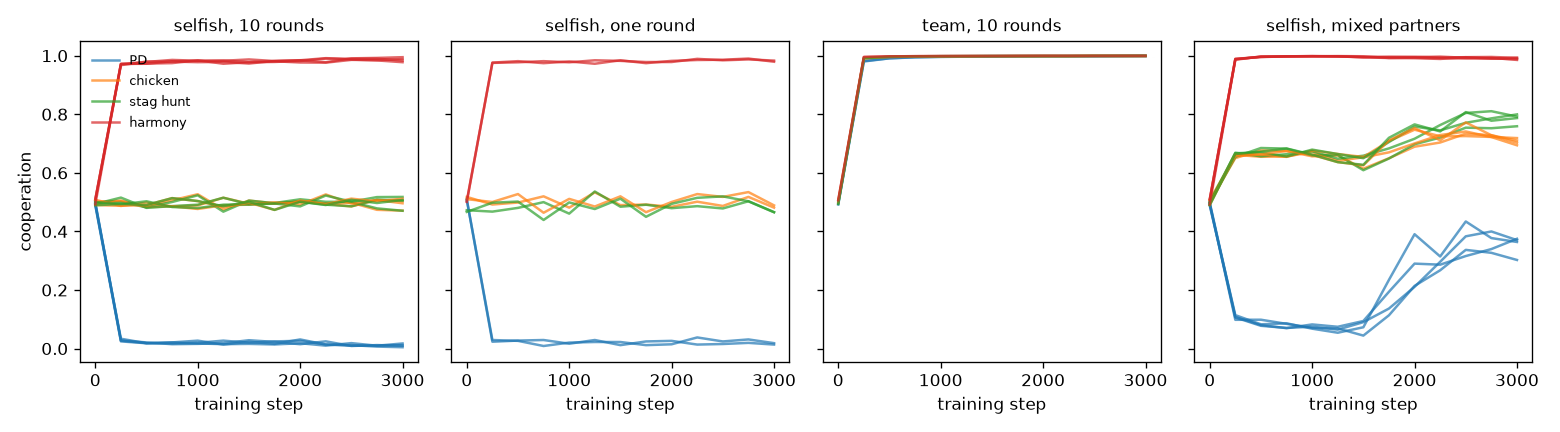
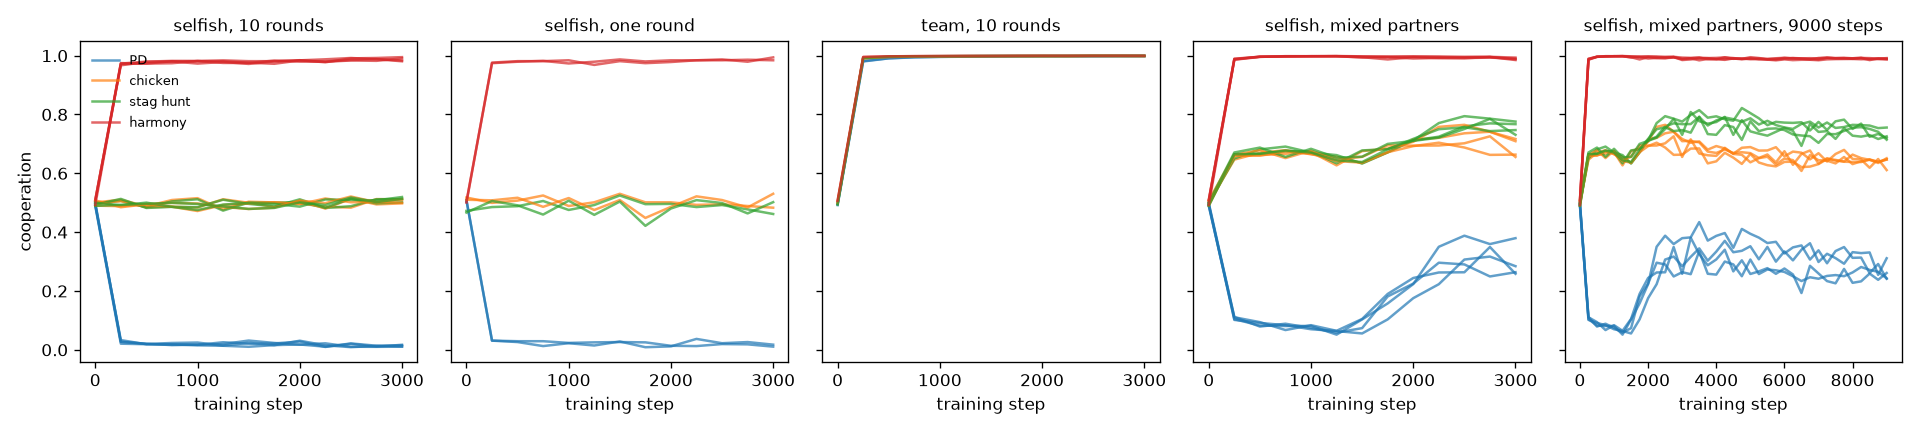
Iterated: critic level over all learners; long-training variant archived; gradient noise by baseline

diff --git a/experiments/learned_expectations/run_baselines.py b/experiments/learned_expectations/run_baselines.py
@@ -1,0 +1,91 @@
+"""Policy-gradient noise in the mixed-partner iterated agent, by baseline. Run:
+python experiments/learned_expectations/run_baselines.py   (writes baselines_report.txt)
+
+Checkpoints of one training run (seed 0). At each, 24 estimates of the policy gradient per estimator, each
+from 2048 episodes split as in training (half self-play, half over the scripted partners):
+- batch:    rewards-to-go minus their per-round batch mean (what the trainer uses);
+- rloo g:   episodes in groups of g that share the exogenous context (game sequence, label flips, partner
+            type) and differ only in sampled moves, baseline the leave-one-out group mean per round
+            (Dr. GRPO's group mean up to a (g - 1)/g scale, with no std or length normalization);
+- grpo-std: the group mean, divided by the group's std (GRPO's normalization; biased).
+cos is the mean cosine with a reference (the mean of all unbiased estimates); noise is the estimates'
+spread about their own mean, over the reference's squared norm.
+"""
+import copy
+import os
+import sys
+
+import torch
+
+sys.path.insert(0, os.path.dirname(__file__))
+import iterated as it  # noqa: E402
+
+G, M = 2048, 24
+EST = [("batch", 1), ("rloo", 2), ("rloo", 4), ("rloo", 8), ("rloo", 16), ("rloo", 64), ("grpo-std", 16)]
+SAMPLE = it.sample_round
+
+
+def grouped(g):
+    def sample(n, gen, families=(0, 1, 2, 3)):
+        Mx, fam, flips = SAMPLE(n // g, gen, families)
+        rep = lambda x: x.repeat_interleave(g, 0)  # noqa: E731
+        return rep(Mx), rep(fam), [rep(x) for x in flips]
+    return sample
+
+
+def learners(player, gen, g):
+    it.sample_round = grouped(g) if g > 1 else SAMPLE
+    try:
+        rec = it.rollout(player, G // 2, gen)
+        out = [rec[0], rec[1]]
+        for p in it.PARTNERS.values():
+            out.append(it.rollout(player, G // (2 * len(it.PARTNERS)), gen, partner=p)[0])
+    finally:
+        it.sample_round = SAMPLE
+    return out
+
+
+def grad(player, gen, kind, g):
+    loss = 0.0
+    for R in learners(player, gen, g):
+        ret = torch.flip(torch.cumsum(torch.flip(R["r"], [1]), 1), [1])
+        if kind == "batch":
+            adv = ret - ret.mean(0, keepdim=True)
+        else:
+            x = ret.reshape(-1, g, ret.shape[1])
+            if kind == "rloo":
+                adv = (x - (x.sum(1, keepdim=True) - x) / (g - 1)).reshape(ret.shape)
+            else:
+                adv = ((x - x.mean(1, keepdim=True)) / (x.std(1, keepdim=True) + 1e-6)).reshape(ret.shape)
+        loss = loss - (R["logp"] * adv).mean()
+    return torch.cat([x.flatten() for x in torch.autograd.grad(loss, list(player.parameters()))])
+
+
+if __name__ == "__main__":
+    torch.set_num_threads(int(os.environ.get("THREADS", "4")))
+    lines = []
+    say = lambda s: (print(s, flush=True), lines.append(s))  # noqa: E731
+    snaps = {}
+
+    def monitor(step, player):
+        if step in (0, 500, 1500):
+            snaps[step] = copy.deepcopy(player.state_dict())
+
+    player = it.train(seed=0, mixed=True, monitor=monitor)
+    snaps[3000] = copy.deepcopy(player.state_dict())
+    say(f"{G} episodes per estimate, {M} estimates per estimator. cos: mean cosine with the reference gradient; "
+        "noise: spread about the estimator's mean over the reference's squared norm.")
+    for step, sd in sorted(snaps.items()):
+        player.load_state_dict(sd)
+        est = {}
+        for i, (kind, g) in enumerate(EST):
+            gen = torch.Generator().manual_seed(1000 * i + step)
+            est[(kind, g)] = torch.stack([grad(player, gen, kind, g) for _ in range(M)])
+        ref = torch.cat([v for (k, _), v in est.items() if k != "grpo-std"]).mean(0)
+        row = []
+        for (kind, g), v in est.items():
+            cos = torch.nn.functional.cosine_similarity(v, ref[None], dim=1).mean()
+            noise = ((v - v.mean(0)) ** 2).sum(1).mean() / (ref ** 2).sum()
+            row.append(f"{kind}{'' if g == 1 else f' {g}'} {float(cos):.2f}/{float(noise):.1f}")
+        say(f"step {step:4d}  cos/noise: " + "  ".join(row))
+    open(os.path.join(os.path.dirname(__file__), "baselines_report.txt"), "w").write("\n".join(lines) + "\n")

diff --git a/experiments/learned_expectations/run_iterated.py b/experiments/learned_expectations/run_iterated.py
@@ -2,7 +2,7 @@
 python experiments/learned_expectations/run_iterated.py   (writes iterated_report.txt, iterated.png; parallel)
 
 Variants: selfish learners over 10 rounds; the same over one round (no future); team learners (both players'
-payoffs, the twin) over 10 rounds. Measured in self-play on fresh episodes: cooperation by family and round,
+payoffs, the twin) over 10 rounds; selfish learners with mixed partners, trained for 3000 and for 9000 steps. Measured in self-play on fresh episodes: cooperation by family and round,
 reciprocity across games (cooperation after the partner cooperated or defected in the previous round, when
 that round was a different game), and play against scripted partners."""
 import os
@@ -19,7 +19,8 @@ from iterated import FAMILIES, PARTNERS, rollout, train  # noqa: E402
 HERE = os.path.dirname(__file__)
 VARIANTS = {"selfish, 10 rounds": (dict(objective="selfish"), 4), "selfish, one round": (dict(objective="selfish", K=1), 2),
             "team, 10 rounds": (dict(objective="team"), 2),
-            "selfish, mixed partners": (dict(objective="selfish", mixed=True), 4)}
+            "selfish, mixed partners": (dict(objective="selfish", mixed=True), 4),
+            "selfish, mixed partners, 9000 steps": (dict(objective="selfish", mixed=True, steps=9000), 4)}
 
 
 def evaluate(player, K):
@@ -65,7 +66,7 @@ def one(job):
         curve.append([float(R[0]["coop"][R[0]["fam"] == f].mean()) for f in range(4)])
 
     player = train(seed=seed, monitor=monitor, **kw)
-    monitor(3000, player)
+    monitor(kw.get("steps", 3000), player)
     return name, seed, dict(evaluate(player, kw.get("K", 10)), curve=curve)
 
 
@@ -100,11 +101,11 @@ if __name__ == "__main__":
     import matplotlib
     matplotlib.use("Agg")
     import matplotlib.pyplot as plt
-    fig, axes = plt.subplots(1, len(VARIANTS), figsize=(13, 3.6), sharey=True)
-    steps = np.arange(0, 3001, 250)
+    fig, axes = plt.subplots(1, len(VARIANTS), figsize=(16, 3.6), sharey=True)
     for ax, name in zip(axes, VARIANTS):
         for o in [o for n, _, o in out if n == name]:
             c = np.array(o["curve"])
+            steps = 250 * np.arange(len(c))
             for f in range(4):
                 ax.plot(steps, c[:, f], color=plt.cm.tab10(f), alpha=0.7, label=fam_names[f] if o is not None else None)
         ax.set_title(name, fontsize=10)

diff --git a/experiments/learned_expectations/iterated.py b/experiments/learned_expectations/iterated.py
@@ -119,7 +119,7 @@ def train(objective="selfish", steps=3000, G=2048, seed=0, lr=3e-3, families=(0,
             for partner in PARTNERS.values():
                 Rp = rollout(player, G // (2 * len(PARTNERS)), gen, families, partner=partner, K=K)
                 learners.append((Rp[0], Rp[0]["r"] + Rp[1]["r"]))
-        loss = 0.0
+        loss, targets = 0.0, []
         for R, joint in learners:
             reward = joint if objective == "team" else R["r"]
             ret = torch.flip(torch.cumsum(torch.flip(reward, [1]), 1), [1])
@@ -127,13 +127,15 @@ def train(objective="selfish", steps=3000, G=2048, seed=0, lr=3e-3, families=(0,
             C = R["C"] + level
             target = R["r"] + NU * torch.cat([C[:, 1:].detach(), torch.zeros(len(C), 1)], 1)
             loss = loss + ((C - target) ** 2).mean()
+            targets.append(target.detach().mean(0))
         opt.zero_grad()
         loss.backward()
         torch.nn.utils.clip_grad_norm_(player.parameters(), 5.0)
         opt.step()
-        with torch.no_grad():
-            C = rec[1]["C"] + level
-            level += 0.1 * ((rec[1]["r"] + NU * torch.cat([C[:, 1:], torch.zeros(len(C), 1)], 1)).mean(0) - level)
+        # the level tracks the TD loss's own weighting (each learner's batch mean counts once), so the head
+        # learns only deviations from it and carries no mean push on the shared state
+        level += 0.1 * (torch.stack(targets).mean(0) - level)
+    player.level = level                       # the critic's forecast is the head's output + level
     return player
 
 

diff --git a/experiments/learned_expectations/README.md b/experiments/learned_expectations/README.md
@@ -119,10 +119,13 @@ dilemma, chicken, stag hunt or harmony game with fresh payoffs, shown to both pl
 their own randomly ordered action labels, so the cooperative move must be read off the
 matrix. A GRU carries the history (each past game, both moves, my payoff); a head reads the
 state and the current game and gives the move and a critic (honest, its level kept outside
-the network, D8). Self-play with shared weights, REINFORCE on rewards-to-go; objective
-selfish (my payoffs) or team (both players'). With mixed partners, half of each batch is
-played against scripted partners (always cooperate, always defect, tit for tat, coin flip).
-`iterated.py`; `run_iterated.py` (writes `iterated_report.txt`, `iterated.png`).
+the network at the TD loss's mean target over all learners' episodes, D8). Self-play with
+shared weights, REINFORCE on rewards-to-go; objective selfish (my payoffs) or team (both
+players'). With mixed partners, half of each batch is played against scripted partners
+(always cooperate, always defect, tit for tat, coin flip).
+`iterated.py`; `run_iterated.py` (writes `iterated_report.txt`, `iterated.png`); `run_baselines.py` (the
+policy gradient's noise by baseline, batch mean against groups of episodes sharing their context;
+`baselines_report.txt`).
 
 ## The partners agent
 
@@ -275,23 +278,29 @@ felt welfare (empathy); `J`, the gradient through the partner's forecast of my p
 - **Iterated randomized games: strategy needs someone to strategize against.** Selfish
   learners trained only against themselves play each game as if it were one-shot: defect in
   the prisoner's dilemma (99%), cooperate in harmony, and in stag hunts coordinate on one
-  equilibrium per game (same move 94%) without regard to history; the one-round control plays
+  equilibrium per game (same move 93%) without regard to history; the one-round control plays
   the same. Nothing depends on the partner's last move, the round, or who the partner is. Team
   learners cooperate everywhere. Trained against a mix of partners, the agent learns to
   strategize across games (4 seeds, `iterated_report.txt`):
   - reciprocity across different games: after the partner cooperated in a different game it
-    cooperates in a prisoner's dilemma 43% of the time, after a defection 6% (stag hunt 86%
-    against 54%);
+    cooperates in a prisoner's dilemma 37% of the time, after a defection 6% (stag hunt 83%
+    against 53%);
   - reading the partner: against always-defect, cooperation in prisoner's dilemmas falls from
-    43% to 4% after one round; against tit for tat it rises to about 75% and holds until the
+    39% to 4% after one round; against tit for tat it rises to about 70% and holds until the
     last rounds; against an unconditional cooperator it rises and then is exploited, down to
-    11% by round 10;
-  - an end game: prisoner's dilemma cooperation 38% in rounds 1–9, 9% in round 10;
-  - reciprocity carries back into self-play (prisoner's dilemma 35%, stag hunt 78%, from 1% and
-    50%), and appears late in training, after about 1,500 steps of near-total defection.
-  - Three times longer training (4 seeds; output not archived) does not raise self-play
-    cooperation (prisoner's dilemma 0.22–0.38) but sharpens the end game: against tit for
-    tat, about 0.7 through round 9, then 0.06–0.12 in round 10.
+    9% by round 10;
+  - an end game: prisoner's dilemma cooperation 32% in rounds 1–9, 5% in round 10;
+  - reciprocity carries back into self-play (prisoner's dilemma 29%, stag hunt 75%, from 1% and
+    51%), and appears late in training, after about 1,500 steps of near-total defection.
+  - Three times longer training (9000 steps, 4 seeds) does not raise self-play cooperation
+    (prisoner's dilemma 0.24–0.31) but sharpens the end game: against tit for tat, about
+    0.6–0.7 through round 9, then 0.07 in round 10 (0.27 at 3000 steps).
+- **Gradient noise by baseline** (mixed partners, one training run, `baselines_report.txt`). At equal
+  episode budget, groups of 4 episodes sharing their game sequence and partner type, with a leave-one-out
+  group baseline (Dr. GRPO's estimator: no std or length normalization), cut the policy gradient's noise
+  1.5–2.3× against the per-round batch mean once learning starts. Larger groups lose it to fewer distinct
+  contexts (64: 2–3× noisier than the batch mean), and GRPO's std normalization is 6–7× noisier. What
+  remains is within-context: one move's credit against nine rounds of sampled play.
 - **Consolation.** At `λ = 2` the motivated critic braces before outcomes and consoles itself
   after bad ones: just after a negative TD error it sits 0.18 below realized payoffs, after a
   positive one 0.51 below. At `λ = 1` the gap vanishes (0.33 against 0.29), as the critic's

diff --git a/ledger.md b/ledger.md
@@ -31,6 +31,10 @@ at `22c5c4f`).
 
 - Learned-agent comparisons need seeds: the "braced critic raises payoffs" result compared
   braced runs against one honest seed stuck on a plateau.
+- A critic level kept outside the network must track the TD loss's own weighting. The
+  iterated agent's level followed self-play only, so with mixed partners the head carried a
+  mean push of −0.29 on the shared state (−0.5 in rounds 1–2). Fixed, it is 0.00; prisoner's
+  dilemma cooperation went from 0.35 to 0.29, with the qualitative results unchanged.
 - Claims made in chat get checked before they reach the docs. Wrong first: dread pricing
   information in the direct model, CDT/FDT as the mortality/eternity split, "no adaptation
   at task scales", conservation taming copy-counted anthropics.
